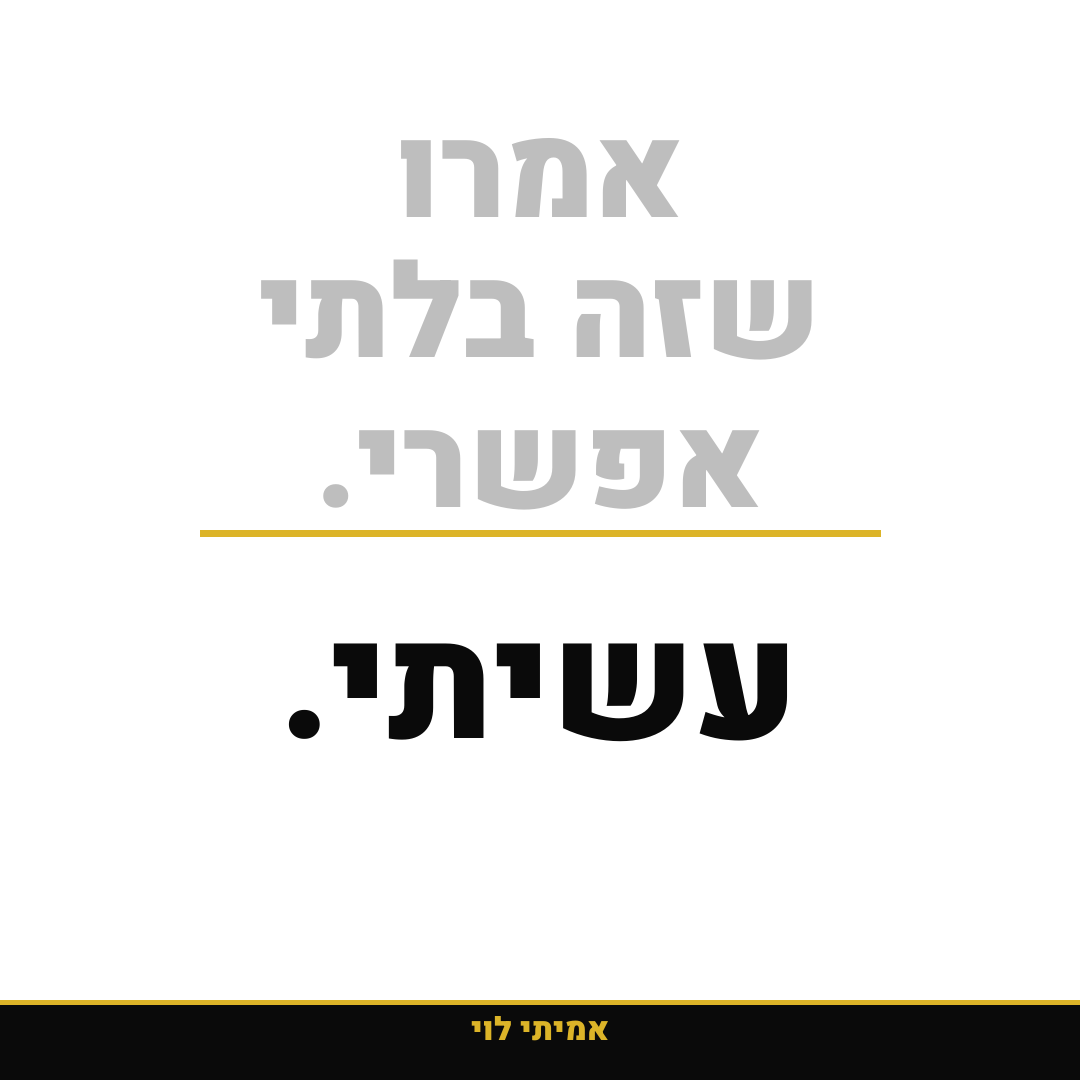
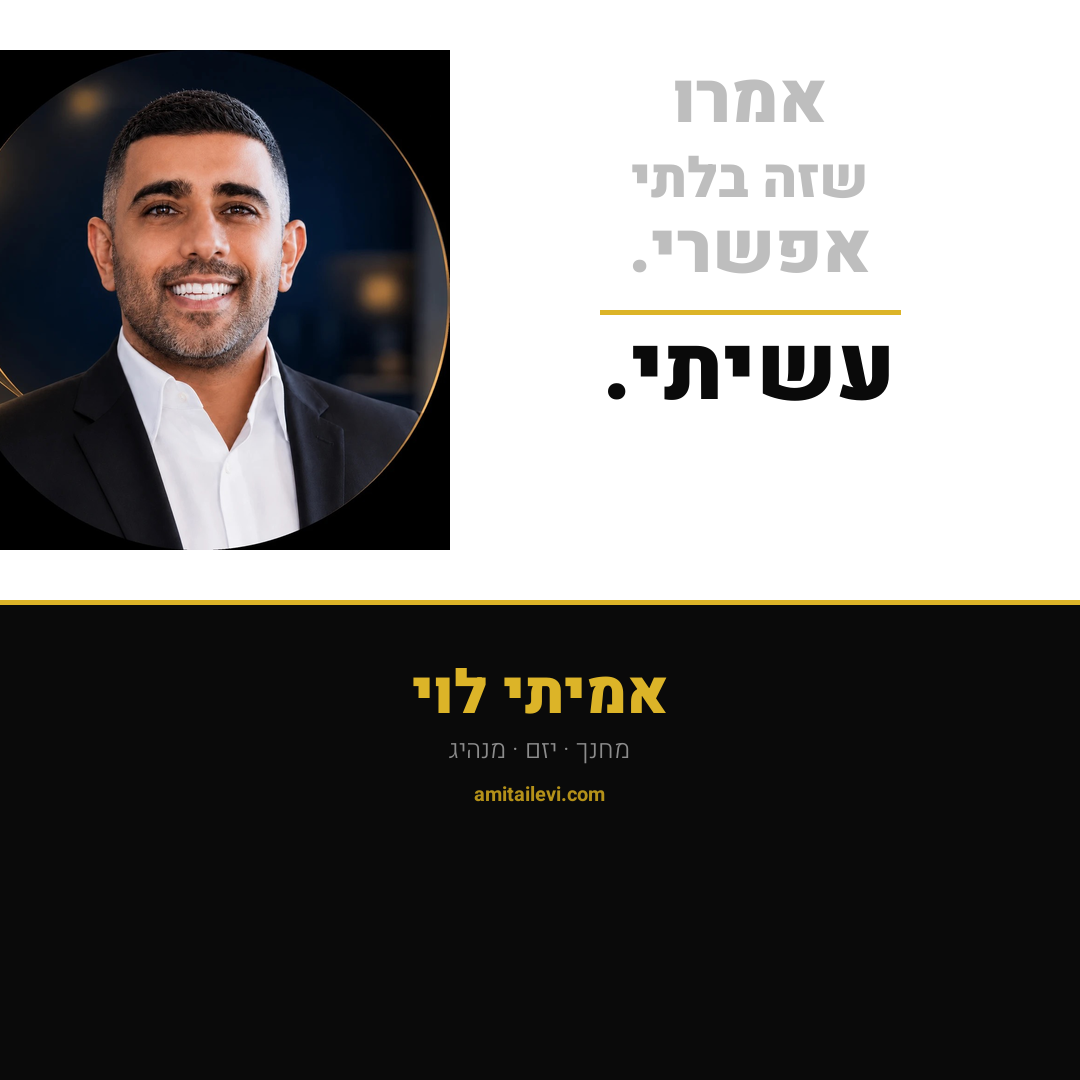
V5e: with face — presidential posts with Amitai's photo

diff --git a/content/week1/generate_v5.py b/content/week1/generate_v5.py
@@ -1,71 +1,102 @@
 #!/usr/bin/env python3
-"""V5d: PRESIDENT. No kindergartens. Big vision. Winner. Leader."""
-from PIL import Image, ImageDraw, ImageFont
+"""V5e: WITH HIS FACE. Presidential. Personal. Real."""
+from PIL import Image, ImageDraw, ImageFont, ImageFilter
 from bidi.algorithm import get_display as bidi
 import os
 
 W, H = 1080, 1080
 OUT = os.path.dirname(os.path.abspath(__file__))
+SITE = os.path.dirname(os.path.dirname(OUT))
 FONTS = "/tmp/heebo-fonts"
 f = lambda w, s: ImageFont.truetype(f"{FONTS}/heebo-{w}.ttf", s)
 
 WHITE = (255,255,255); BLACK = (10,10,10); GOLD = (220,180,40)
+DARKGOLD = (180,145,25)
 
 def tc(d, text, y, fnt, fill, w=W):
     bb = d.textbbox((0,0), text, font=fnt)
     d.text(((w-bb[2]+bb[0])//2, y), text, font=fnt, fill=fill)
 
-def brand(d):
-    d.rectangle([0, H-80, W, H], fill=BLACK)
-    d.rectangle([0, H-80, W, H-76], fill=GOLD)
-    d.text((W//2, H-50), bidi("אמיתי לוי"), font=f(900,32), fill=GOLD, anchor="mm")
+def load_face():
+    """Load and prepare the headshot"""
+    img = Image.open(f"{SITE}/amitai.jpg").convert("RGBA")
+    return img
 
 # ══════════════════════════════════════
-# 01: "אמרו שזה בלתי אפשרי"
+# 01: Face + "אמרו בלתי אפשרי. עשיתי."
 # ══════════════════════════════════════
 def p01():
     img = Image.new("RGB", (W,H), WHITE)
     d = ImageDraw.Draw(img)
-    tc(d, bidi("אמרו"), 80, f(900,130), (190,190,190))
-    tc(d, bidi("שזה בלתי"), 220, f(900,130), (190,190,190))
-    tc(d, bidi("אפשרי."), 370, f(900,130), (190,190,190))
-    d.rectangle([200, 530, 880, 536], fill=GOLD)
-    tc(d, bidi("עשיתי."), 570, f(900,160), BLACK)
-    brand(d)
+    # Photo on left side, large
+    face = load_face().resize((500, 500), Image.LANCZOS)
+    img.paste(face, (-50, 50), face)
+    # Text on right
+    d.text((750, 100), bidi("אמרו"), font=f(900,70), fill=(190,190,190), anchor="mm")
+    d.text((750, 180), bidi("שזה בלתי"), font=f(900,55), fill=(190,190,190), anchor="mm")
+    d.text((750, 250), bidi("אפשרי."), font=f(900,70), fill=(190,190,190), anchor="mm")
+    d.rectangle([600, 310, 900, 314], fill=GOLD)
+    d.text((750, 370), bidi("עשיתי."), font=f(900,90), fill=BLACK, anchor="mm")
+    # Bottom bar
+    d.rectangle([0, 600, W, H], fill=BLACK)
+    d.rectangle([0, 600, W, 604], fill=GOLD)
+    tc(d, bidi("אמיתי לוי"), 650, f(900,60), GOLD)
+    tc(d, bidi("מחנך · יזם · מנהיג"), 730, f(300,26), (140,140,140))
+    tc(d, "amitailevi.com", 780, f(700,20), DARKGOLD)
     return img
 
 # ══════════════════════════════════════
-# 02: "4 ערים. מנדט."
+# 02: Face center + "4 ערים בחרו בי"
 # ══════════════════════════════════════
 def p02():
-    img = Image.new("RGB", (W,H), WHITE)
+    img = Image.new("RGB", (W,H), BLACK)
     d = ImageDraw.Draw(img)
-    d.text((W//2, 50), "4", font=f(900,400), fill=BLACK, anchor="mt")
-    d.rectangle([200, 460, 880, 466], fill=GOLD)
-    tc(d, bidi("ערים בחרו בי."), 490, f(900,80), BLACK)
-    tc(d, bidi("לא ביקשתי. לא התחנפתי."), 610, f(400,30), (150,150,150))
-    tc(d, bidi("הם ראו תוצאות."), 660, f(700,36), GOLD)
-    brand(d)
+    # Photo - centered, cropped tighter
+    face = load_face().resize((600, 600), Image.LANCZOS)
+    img.paste(face, (240, 30), face)
+    # Gradient overlay at bottom
+    for y in range(400, H):
+        alpha = min(255, int((y-400)/200 * 255))
+        d.line([(0,y),(W,y)], fill=(10,10,10))
+    # Text over dark area
+    d.rectangle([200, 640, 880, 644], fill=GOLD)
+    tc(d, bidi("4 ערים בחרו בי."), 670, f(900,60), WHITE)
+    tc(d, bidi("לא ביקשתי. הם ראו תוצאות."), 750, f(400,28), (160,160,160))
+    # Name
+    d.rectangle([300, 830, 780, 832], fill=GOLD)
+    tc(d, bidi("אמיתי לוי"), 850, f(900,36), GOLD)
     return img
 
 # ══════════════════════════════════════
-# 03: Chazal — presidential
+# 03: Split — face + chazal
 # ══════════════════════════════════════
 def p03():
-    img = Image.new("RGB", (W,H), BLACK)
+    img = Image.new("RGB", (W,H), WHITE)
     d = ImageDraw.Draw(img)
-    tc(d, bidi("אם אין"), 80, f(900,110), WHITE)
-    tc(d, bidi("אני לי —"), 210, f(900,110), GOLD)
-    d.rectangle([250, 350, 830, 354], fill=GOLD)
-    tc(d, bidi("מי לי."), 390, f(900,140), WHITE)
-    tc(d, bidi("הלל הזקן ידע."), 580, f(400,30), (80,80,80))
-    tc(d, bidi("גם אני."), 640, f(900,60), GOLD)
-    d.rectangle([0, H-80, W, H], fill=GOLD)
-    d.text((W//2, H-50), bidi("אמיתי לוי"), font=f(900,32), fill=BLACK, anchor="mm")
+    # Left half — photo
+    face = load_face().resize((540, 540), Image.LANCZOS)
+    img.paste(face, (0, 0), face)
+    # Gold vertical divider
+    d.rectangle([540, 0, 548, H], fill=GOLD)
+    # Right half — quote
+    rx = 810  # center of right half
+    d.text((rx, 100), bidi("אם אין"), font=f(900,55), fill=BLACK, anchor="mm")
+    d.text((rx, 170), bidi("אני לי —"), font=f(900,55), fill=GOLD, anchor="mm")
+    d.rectangle([600, 220, W-60, 223], fill=GOLD)
+    d.text((rx, 280), bidi("מי לי."), font=f(900,70), fill=BLACK, anchor="mm")
+    d.text((rx, 390), bidi("הלל הזקן"), font=f(300,22), fill=(150,150,150), anchor="mm")
+    d.text((rx, 440), bidi("ידע."), font=f(700,36), fill=(150,150,150), anchor="mm")
+    # Bottom full width — black
+    d.rectangle([0, 560, W, H], fill=BLACK)
+    d.rectangle([0, 560, W, 564], fill=GOLD)
+    tc(d, bidi("גם אני."), 600, f(900,80), GOLD)
+    tc(d, bidi("אמיתי לוי"), 720, f(900,40), WHITE)
+    tc(d, bidi("מחנך · יזם · מנהיג"), 780, f(300,22), (120,120,120))
+    tc(d, "amitailevi.com", 820, f(700,18), DARKGOLD)
     return img
 
 for name, func in [("test-01.png",p01),("test-02.png",p02),("test-03.png",p03)]:
     img = func()
     img.save(f"{OUT}/{name}", "PNG", optimize=True)
     print(f"  {name}")
-print("V5d ready.")
+print("V5e — WITH FACE.")
